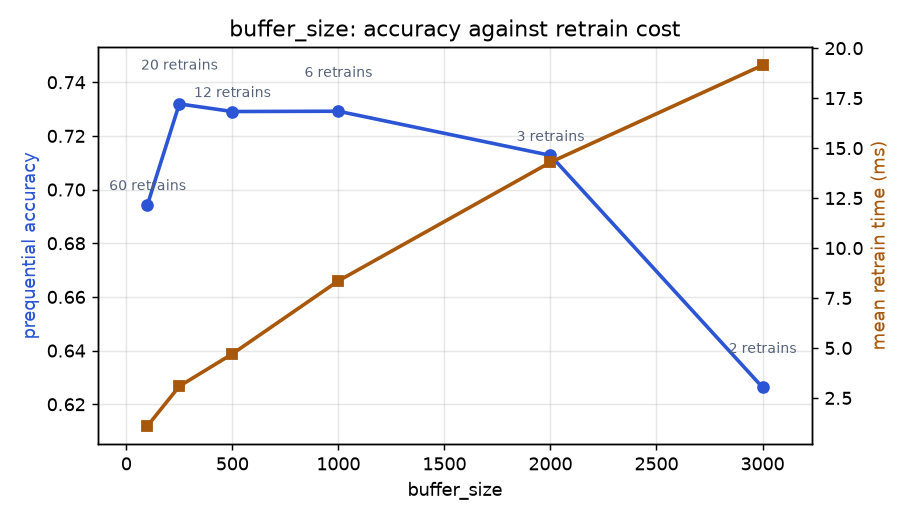
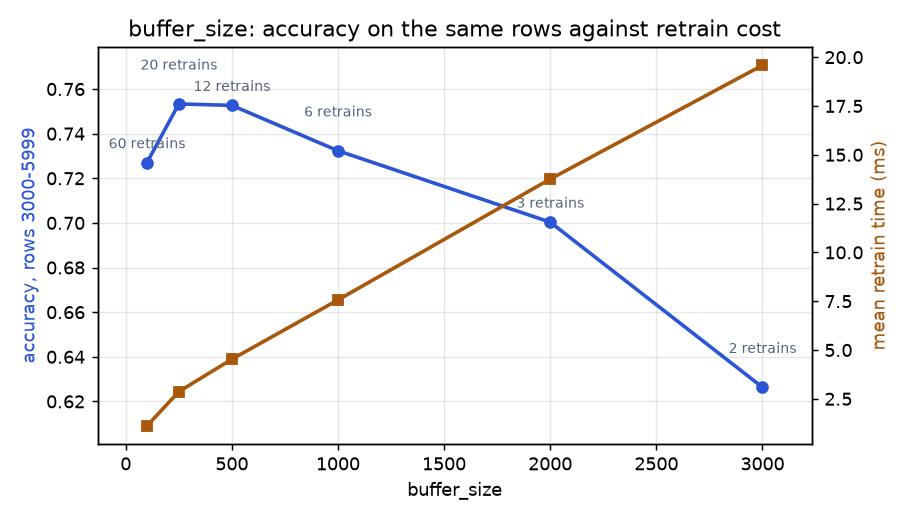
Benchmark: time fit alone, save results itself, compare buffers on the same rows

diff --git a/NumCompute/benchmark/bench_stream.py b/NumCompute/benchmark/bench_stream.py
@@ -17,7 +17,8 @@ Run from the NumCompute folder:
     python benchmark/bench_stream.py
     python benchmark/bench_stream.py --quick        (smaller sizes, a few seconds)
 
-A full run also saves the figures to benchmark/stream_figures/.
+A full run also writes its output to benchmark/results_stream.md (UTF-8) and saves the figures to
+benchmark/stream_figures/. A --quick run only prints.
 
 Reproducibility:
 - every random input comes from a fixed seed (SEED below) and the stream file is generated from a
@@ -29,6 +30,8 @@ Reproducibility:
 """
 
 import argparse
+import contextlib
+import io
 import os
 import sys
 import time
@@ -118,10 +121,12 @@ def bench_speed(quick):
 
     n = 400 if quick else 800
     X, y = make_data(rng, n)
-    add("tree: training (max_depth=5)", "n={:,}, 5 features".format(n),
+    # fit alone is timed; the two trees are compared through their feature importances, which
+    # are equal only when both splitters grew the same tree
+    add("tree: fit only (max_depth=5)", "n={:,}, 5 features".format(n),
         benchmarking.compare_loop_vs_vectorised(
-            lambda: DecisionTree(max_depth=5, splitter="loop").fit(X, y).predict(X),
-            lambda: DecisionTree(max_depth=5).fit(X, y).predict(X),
+            lambda: DecisionTree(max_depth=5, splitter="loop").fit(X, y).feature_importances_,
+            lambda: DecisionTree(max_depth=5).fit(X, y).feature_importances_,
             repeats=repeats))
 
     X_train, y_train = make_data(rng, 2000)
@@ -180,7 +185,7 @@ def bench_buffer(X, y, sizes):
     return results, histories
 
 
-def save_figures(results, histories, folder):
+def save_figures(results, histories, folder, last_row):
     """Write the buffer-size figures (a full run only)."""
     import matplotlib
     matplotlib.use("Agg")
@@ -188,10 +193,13 @@ def save_figures(results, histories, folder):
     from numcompute_stream import visualise
 
     os.makedirs(folder, exist_ok=True)
+    # accuracy on the same rows for every buffer size (all rows after the drift), so the points
+    # are comparable; the overall accuracy starts at a different row for each size
     fig, _ = visualise.plot_buffer_tradeoff(
-        [r["buffer_size"] for r in results], [r["accuracy"] for r in results],
+        [r["buffer_size"] for r in results], [r["all_post_drift"] for r in results],
         [r["mean_retrain"] for r in results], n_retrains=[r["retrains"] for r in results],
-        title="buffer_size: accuracy against retrain cost")
+        title="buffer_size: accuracy on the same rows against retrain cost",
+        accuracy_label="accuracy, rows {}-{}".format(DRIFT_AT, last_row))
     fig.savefig(os.path.join(folder, "buffer_tradeoff.png"), dpi=130)
 
     fig, ax = plt.subplots(figsize=(9, 4.5))
@@ -214,11 +222,36 @@ def save_figures(results, histories, folder):
 # Report
 # ---------------------------------------------------------------------
 
+class _Tee(io.StringIO):
+    """Keeps a copy of everything printed, and still prints it."""
+
+    def __init__(self, out):
+        super().__init__()
+        self._out = out
+
+    def write(self, text):
+        self._out.write(text)
+        return super().write(text)
+
+
 def main():
     parser = argparse.ArgumentParser(description=__doc__.split("\n")[1])
     parser.add_argument("--quick", action="store_true", help="smaller sizes, nothing is saved")
     args = parser.parse_args()
+    if hasattr(sys.stdout, "reconfigure"):
+        sys.stdout.reconfigure(errors="replace")      # a console without "µ" prints "?" instead
+    tee = _Tee(sys.stdout)
+    with contextlib.redirect_stdout(tee):
+        report(args)
+    if not args.quick:
+        path = os.path.join(HERE, "results_stream.md")
+        with open(path, "w", encoding="utf-8", newline="\n") as f:
+            f.write(tee.getvalue())
+        print("Saved benchmark/results_stream.md")
 
+
+def report(args):
+    """Run both benchmarks and print the results as Markdown."""
     env = benchmarking.environment_info()
     print("## NumCompute-Stream benchmarks\n")
     for key in ("python", "numpy", "platform", "processor"):
@@ -262,7 +295,7 @@ def main():
 
     if not args.quick:
         folder = os.path.join(HERE, "stream_figures")
-        save_figures(results, histories, folder)
+        save_figures(results, histories, folder, len(y) - 1)
         print("\nFigures saved to benchmark/stream_figures/.")
 
 

diff --git a/NumCompute/numcompute_stream/visualise.py b/NumCompute/numcompute_stream/visualise.py
@@ -204,7 +204,8 @@ def plot_benchmark(sizes, timings, ax=None, logy=True, logx=False, xlabel="numbe
 
 
 def plot_buffer_tradeoff(buffer_sizes, accuracy, retrain_seconds, n_retrains=None,
-                         title="Effect of buffer_size", save_path=None):
+                         title="Effect of buffer_size", save_path=None,
+                         accuracy_label="prequential accuracy"):
     """
     Accuracy (left axis) and mean retrain time (right axis) against buffer_size.
 
@@ -215,6 +216,8 @@ def plot_buffer_tradeoff(buffer_sizes, accuracy, retrain_seconds, n_retrains=Non
     - retrain_seconds: sequence of float, mean seconds per retrain, one per buffer size
     - n_retrains: sequence of int, optional, written above each accuracy point
     - title, save_path: see plot_metric_history
+    - accuracy_label: str, the label of the accuracy axis (say which rows were scored, because a
+    larger buffer starts scoring later)
 
     Returns:
     -------
@@ -233,7 +236,7 @@ def plot_buffer_tradeoff(buffer_sizes, accuracy, retrain_seconds, n_retrains=Non
     fig, ax = plt.subplots(figsize=(7, 4))
     ax.plot(buffer_sizes, accuracy, marker="o", lw=2, color=PALETTE[0])
     ax.set_xlabel("buffer_size")
-    ax.set_ylabel("prequential accuracy", color=PALETTE[0])
+    ax.set_ylabel(accuracy_label, color=PALETTE[0])
     ax_right = ax.twinx()
     ax_right.plot(buffer_sizes, np.asarray(retrain_seconds) * 1000, marker="s", lw=2,
                   color=PALETTE[1])

diff --git a/NumCompute/numcompute_stream/tree.py b/NumCompute/numcompute_stream/tree.py
@@ -49,7 +49,9 @@ from .preprocessing import LabelEncoder
 # Largest (n_samples, features, n_classes) array (in float64 elements) the vectorised search builds
 # at once; features are scored in blocks of at most this many elements. One such array is 12 MB,
 # and the search holds about six of them at the same time (the one-hot rows in sorted order, their
-# cumulative sums, the right-hand counts and the impurity temporaries), so the peak is under 80 MB.
+# cumulative sums, the right-hand counts and the impurity temporaries). The measured peak was
+# about 77 MB for 2,000 rows, 1,500 features and 3 classes. It is not a hard limit: when one
+# feature alone needs more (n_samples * n_classes > 1.5 million), a block is that one feature.
 _MAX_BLOCK_ELEMENTS = 1_500_000
 
 # A split must beat the best gain so far by more than this, so rounding noise cannot change which
@@ -175,7 +177,8 @@ def best_split_vectorised(X, y_codes, n_classes, criterion="gini", min_samples_l
     Complexity:
     ----------
     - Time complexity: O(d * n log n + d * n * k) for n samples, d features and k classes
-    - Space complexity: O(n * k) per block of features; blocks keep it under about 64 MB
+    - Space complexity: O(n * k) per feature, in blocks of at most _MAX_BLOCK_ELEMENTS values
+    (12 MB per array; about 77 MB peak measured for 2,000 rows, 1,500 features, 3 classes)
 
     Note:
     ----

diff --git a/NumCompute/benchmark/results_stream.md b/NumCompute/benchmark/results_stream.md
@@ -10,13 +10,13 @@
 
 | Operation | Input | Python loop | Vectorised | Speed-up |
 |---|---|---|---|---|
-| tree: best-split search | n=200, 5 features | 20.17 ms | 187.2 µs | 107.7x |
-| tree: best-split search | n=400, 5 features | 42.60 ms | 327.1 µs | 130.2x |
-| tree: best-split search | n=800, 5 features | 93.95 ms | 530.3 µs | 177.2x |
-| tree: best-split search | n=1,600, 5 features | 214.45 ms | 1.42 ms | 151.0x |
-| tree: training (max_depth=5) | n=800, 5 features | 401.87 ms | 5.27 ms | 76.2x |
-| tree: predict (depth-8 tree) | n=100,000 | 191.40 ms | 12.04 ms | 15.9x |
-| ColumnStats (chunks of 1000) | n=200,000, 5 features | 89.39 ms | 17.73 ms | 5.0x |
+| tree: best-split search | n=200, 5 features | 20.75 ms | 172.3 µs | 120.5x |
+| tree: best-split search | n=400, 5 features | 42.22 ms | 276.5 µs | 152.7x |
+| tree: best-split search | n=800, 5 features | 95.54 ms | 538.5 µs | 177.4x |
+| tree: best-split search | n=1,600, 5 features | 212.85 ms | 1.37 ms | 155.2x |
+| tree: fit only (max_depth=5) | n=800, 5 features | 391.11 ms | 5.20 ms | 75.2x |
+| tree: predict (depth-8 tree) | n=100,000 | 185.85 ms | 12.70 ms | 14.6x |
+| ColumnStats (chunks of 1000) | n=200,000, 5 features | 88.06 ms | 16.89 ms | 5.2x |
 
 Both versions were checked to give the same answer before timing.
 
@@ -26,12 +26,12 @@ Stream: data/stream_data.csv, 6,000 rows in chunks of 100, concept drift at row 
 
 | buffer_size | Accuracy, all scored rows | Rows 3000-3999 (just after the drift) | Rows 3000-5999 (all after the drift) | Retrains | Mean retrain | Total time |
 |---|---|---|---|---|---|---|
-| 100 | 0.694 | 0.717 | 0.727 | 60 | 1.10 ms | 91.14 ms |
-| 250 | 0.732 | 0.703 | 0.753 | 20 | 3.08 ms | 87.39 ms |
-| 500 | 0.729 | 0.678 | 0.753 | 12 | 4.70 ms | 83.07 ms |
-| 1000 | 0.729 | 0.603 | 0.732 | 6 | 8.36 ms | 77.12 ms |
-| 2000 | 0.713 | 0.619 | 0.700 | 3 | 14.29 ms | 66.20 ms |
-| 3000 | 0.626 | 0.622 | 0.626 | 2 | 19.14 ms | 57.32 ms |
+| 100 | 0.694 | 0.717 | 0.727 | 60 | 1.11 ms | 92.75 ms |
+| 250 | 0.732 | 0.703 | 0.753 | 20 | 2.87 ms | 81.71 ms |
+| 500 | 0.729 | 0.678 | 0.753 | 12 | 4.53 ms | 80.06 ms |
+| 1000 | 0.729 | 0.603 | 0.732 | 6 | 7.56 ms | 69.00 ms |
+| 2000 | 0.713 | 0.619 | 0.700 | 3 | 13.76 ms | 62.82 ms |
+| 3000 | 0.626 | 0.622 | 0.626 | 2 | 19.58 ms | 59.10 ms |
 
 How the times were taken: each buffer size is one run over the stream (not a median). Mean retrain is the average of the seconds the tree logs for each retrain, and Total time is the wall-clock time of the whole test-then-train run, including prediction and scoring. Each accuracy is the share of rows predicted correctly in the stated range (every chunk has 100 rows, so a range is a whole number of chunks).
 
